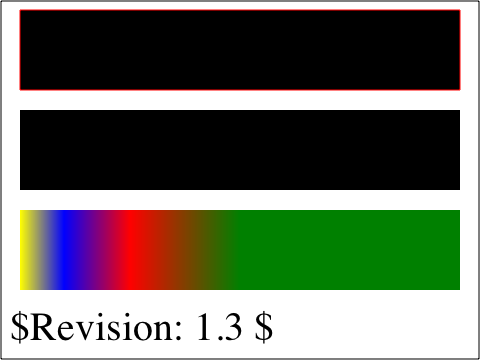
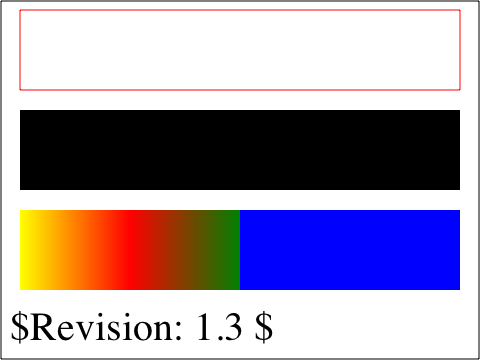
LayoutTests:
Reviewed by Darin and Eric.

        Fixes: http://bugs.webkit.org/show_bug.cgi?id=12150
        Corrected results for W3C's pservers-grad-16-b.
        Add a test for stop calues corner cases.

        * svg/W3C-SVG-1.1/pservers-grad-16-b-expected.checksum:
        * svg/W3C-SVG-1.1/pservers-grad-16-b-expected.png:
        * svg/W3C-SVG-1.1/pservers-grad-16-b-expected.txt:
        * svg/custom/gradient-stop-corner-cases-expected.checksum: Added.
        * svg/custom/gradient-stop-corner-cases-expected.png: Added.
        * svg/custom/gradient-stop-corner-cases-expected.txt: Added.
        * svg/custom/gradient-stop-corner-cases.svg: Added.

WebCore:

        Reviewed by Darin and Eric.

        Fixes: http://bugs.webkit.org/show_bug.cgi?id=12150
        Handle correctly cases where no stops are defined, cases where a
        stop offset value is less than previous stops offset value, and cases
        where a stop offset value is greater than 1.0.
        
        * platform/graphics/svg/SVGPaintServerGradient.cpp:
        (WebCore::SVGPaintServerGradient::setGradientStops): Don't sort stops
        * platform/graphics/svg/cg/SVGPaintServerGradientCg.cpp:
        (WebCore::cgGradientCallback): When there are no stops, use a transparent
        fill
        (WebCore::SVGPaintServerGradient::updateQuartzGradientStopsCache):
        a stop offset must always be considered at greater or equal to all
        preceding stop offsets, but no more than 1.0
[…]

diff --git a/WebCore/platform/graphics/svg/cg/SVGPaintServerGradientCg.cpp b/WebCore/platform/graphics/svg/cg/SVGPaintServerGradientCg.cpp
@@ -45,10 +45,7 @@ static void cgGradientCallback(void* info, const CGFloat* inValues, CGFloat* out
     CGFloat inValue = inValues[0];
 
     if (!stopsCount) {
-        outColor[0] = 0;
-        outColor[1] = 0;
-        outColor[2] = 0;
-        outColor[3] = 1;
+        memset(outColor, 0, 4 * sizeof(CGFloat));
         return;
     } else if (stopsCount == 1) {
         memcpy(outColor, stops[0].colorArray, 4 * sizeof(CGFloat));
@@ -132,9 +129,10 @@ void SVGPaintServerGradient::updateQuartzGradientStopsCache(const Vector<SVGGrad
 
     CGFloat previousOffset = 0.0;
     for (unsigned i = 0; i < stops.size(); ++i) {
-        m_stopsCache[i].offset = stops[i].first;
-        m_stopsCache[i].previousDeltaInverse = 1.0 / (stops[i].first - previousOffset);
-        previousOffset = stops[i].first;
+        CGFloat currOffset = min(max(stops[i].first, previousOffset), 1.0f);
+        m_stopsCache[i].offset = currOffset;
+        m_stopsCache[i].previousDeltaInverse = 1.0 / (currOffset - previousOffset);
+        previousOffset = currOffset;
         CGFloat* ca = m_stopsCache[i].colorArray;
         stops[i].second.getRGBA(ca[0], ca[1], ca[2], ca[3]);
     }

diff --git a/WebCore/platform/graphics/svg/SVGPaintServerGradient.cpp b/WebCore/platform/graphics/svg/SVGPaintServerGradient.cpp
@@ -33,12 +33,6 @@
 
 namespace WebCore {
 
-// Helpers
-static inline bool compareStopOffset(const SVGGradientStop& first, const SVGGradientStop& second)
-{
-    return first.first < second.first;
-}
-
 TextStream& operator<<(TextStream& ts, SVGGradientSpreadMethod m)
 {
     switch (m) {
@@ -97,7 +91,6 @@ const Vector<SVGGradientStop>& SVGPaintServerGradient::gradientStops() const
 void SVGPaintServerGradient::setGradientStops(const Vector<SVGGradientStop>& stops)
 {
     m_stops = stops;
-    std::sort(m_stops.begin(), m_stops.end(), compareStopOffset);
 }
 
 SVGGradientSpreadMethod SVGPaintServerGradient::spreadMethod() const
